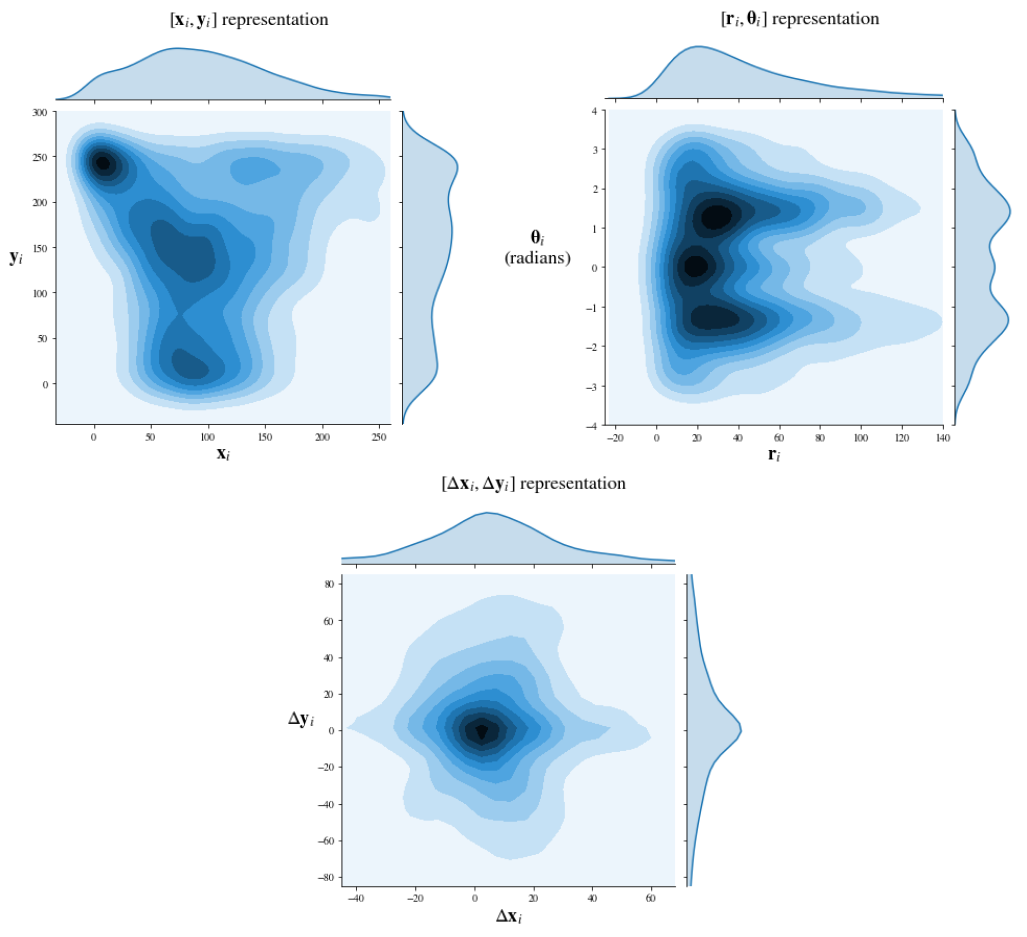
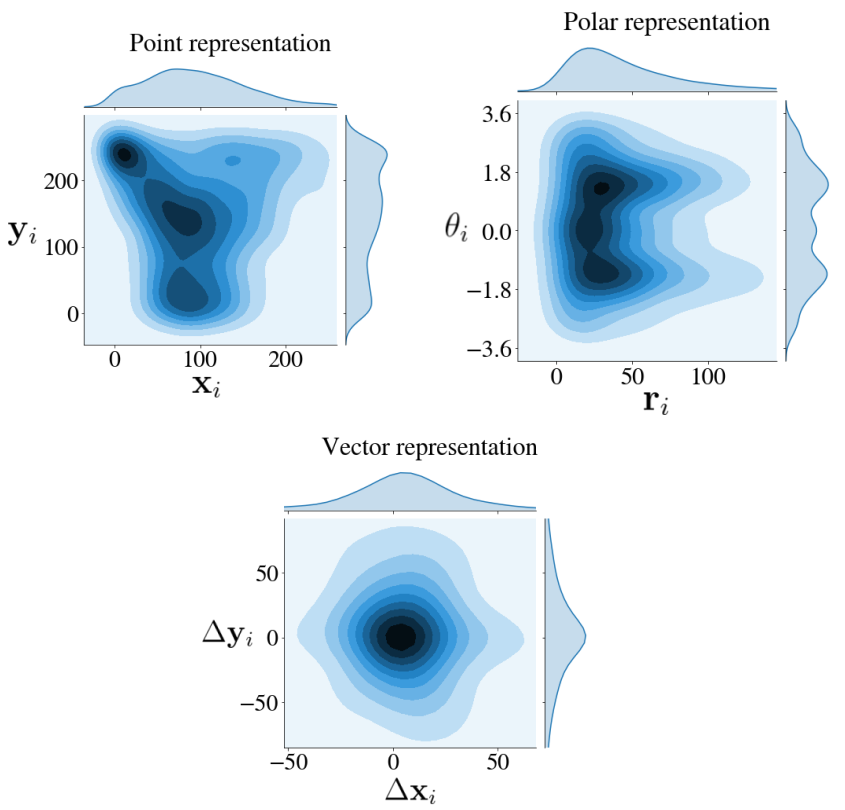
rescale representation plots

diff --git a/_drafts/neural-net-drawings.md b/_drafts/neural-net-drawings.md
@@ -122,7 +122,7 @@ $\begin{bmatrix} \mathbf{r}\_{i},~\mathbf{\theta}\_{i} \end{bmatrix}$
 from one such vector to the next?
 
 <p style="text-align: center">
-    <img src="/images/representations_plot.png" />
+    <img src="/images/representation_plots.png" width="60%" />
 </p>
 
 Well, it turns out the
@@ -146,7 +146,7 @@ representation is the most interesting for the three following reasons:
  is at least symmetrical.
 
  <p style="text-align: center">
-   <img src="/images/representation_distplots.png" />
+   <img src="/images/representation_distplots.png" width="70%" />
  </p>
 
  In  order for the neural net to learn more effectively, we are going
@@ -1183,7 +1183,7 @@ trajectory, even though we saw it wasn't the case when we plotted it
 at the beginning of the article (symmetric, but too spread out):
 
 <p style="text-align: center">
-    <img src="/images/distplot_xy.png" width="55%" />
+    <img src="/images/delta_xy_distplot.png" width="30%" />
 </p>
 
 So let's upgrade to a more sophisticated probability distribution.
